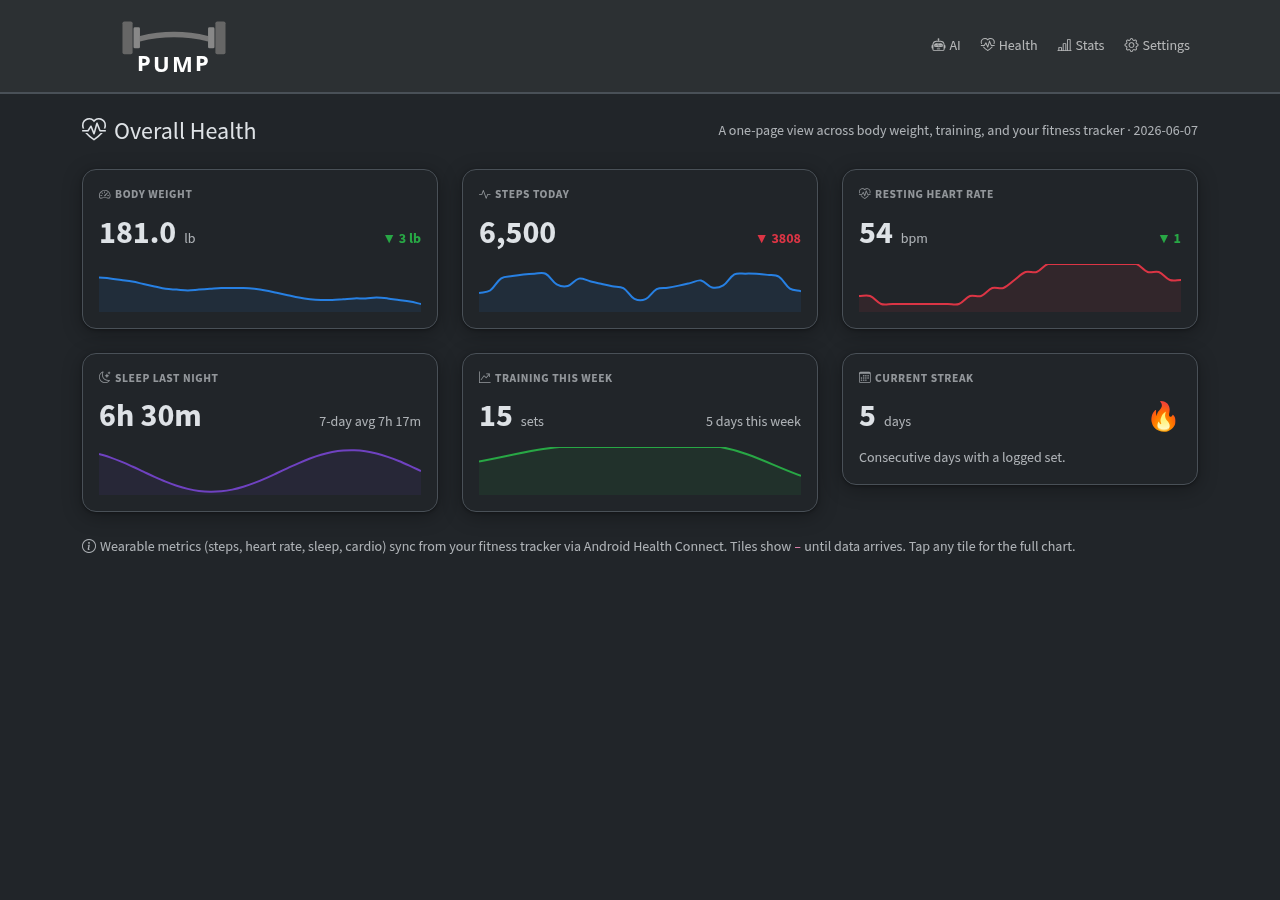
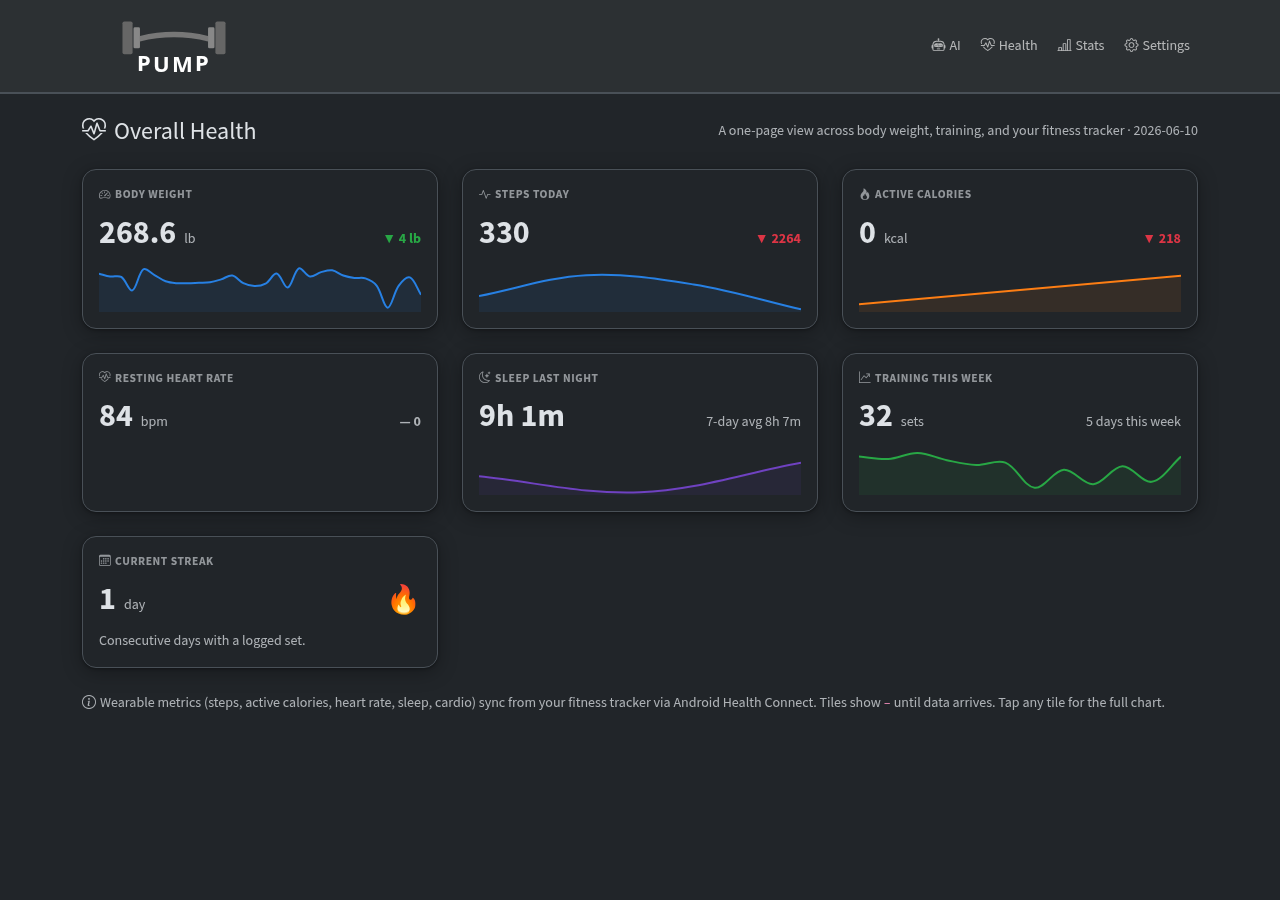
fix(health): aggregate steps + active calories as daily snapshots, not sums
Verified against the live store: the bridge reports steps and active_calories
as cumulative daily-total snapshots — same midnight start_time, re-pushed
through the day with a growing end_time. Because dedup keys on end_time, every
snapshot persists, and the old per-day SUM multiplied the real total by the
number of snapshots:

  2026-06-08 steps: real 4,607 -> summed 40,674 (~9x)
  2026-06-10 steps ("today"): real 330 -> summed 725
  2026-06-08 active calories: real 263 -> summed ~1,315

Aggregate per (day, start_time) taking the MAX, then sum across distinct
start_times per day. Correct for both re-reported daily snapshots (one start ⇒
final total) and genuine sub-day intervals (distinct starts ⇒ summed). Fixes
the long-standing steps inflation and keeps the new active-calories series
honest. Tests cover both shapes.

Also regenerates all assets/ screenshots at 1280×900 from a live-data preview
(deep-sleep stages now render, Resting HR populated via the min proxy, Active
Calories tile + chart, corrected steps) and adds a Muscle Balance screenshot
for the new Sets/Volume toggle. README screenshot table updated to match.

diff --git a/internal/web/healthstats.go b/internal/web/healthstats.go
@@ -40,8 +40,16 @@ func loadHealthStats() models.HealthStats {
 func aggregateHealth(recs []models.HealthRecord) models.HealthStats {
 	out := models.HealthStats{Available: true}
 
-	stepsByDay := map[string]float64{}
-	caloriesByDay := map[string]float64{}
+	// steps and active_calories arrive as cumulative daily-total snapshots:
+	// the bridge re-reports the running daily figure with the same midnight
+	// start_time and a growing end_time (and dedup keys on end_time, so every
+	// snapshot persists). Summing them multiplies the real total by the number
+	// of snapshots. Accumulate per (day, start_time) taking the MAX, then sum
+	// across distinct start_times per day — correct for both re-reported daily
+	// snapshots (one start ⇒ the final total) and genuine sub-day intervals
+	// (distinct starts ⇒ summed).
+	stepsByDay := map[string]map[int64]float64{}
+	caloriesByDay := map[string]map[int64]float64{}
 	restingByDay := map[string][]float64{}
 	hrByDay := map[string][]float64{}
 	sleepByDay := map[string]*models.SleepNight{}
@@ -58,9 +66,9 @@ func aggregateHealth(recs []models.HealthRecord) models.HealthStats {
 		day := r.StartTime.Local().Format("2006-01-02")
 		switch r.MetricType {
 		case "steps":
-			stepsByDay[day] += val(r)
+			addSnapshot(stepsByDay, day, r.StartTime.Unix(), val(r))
 		case "active_calories":
-			caloriesByDay[day] += val(r)
+			addSnapshot(caloriesByDay, day, r.StartTime.Unix(), val(r))
 		case "resting_heart_rate":
 			restingByDay[day] = append(restingByDay[day], val(r))
 		case "heart_rate":
@@ -83,11 +91,11 @@ func aggregateHealth(recs []models.HealthRecord) models.HealthStats {
 		}
 	}
 
-	for d, v := range stepsByDay {
-		out.DailySteps = append(out.DailySteps, models.DayValue{Date: d, Value: v})
+	for d, m := range stepsByDay {
+		out.DailySteps = append(out.DailySteps, models.DayValue{Date: d, Value: sumSnapshots(m)})
 	}
-	for d, v := range caloriesByDay {
-		out.ActiveCalories = append(out.ActiveCalories, models.DayValue{Date: d, Value: v})
+	for d, m := range caloriesByDay {
+		out.ActiveCalories = append(out.ActiveCalories, models.DayValue{Date: d, Value: sumSnapshots(m)})
 	}
 	for d, vs := range hrByDay {
 		mn, av, mx := minAvgMax(vs)
@@ -115,6 +123,27 @@ func aggregateHealth(recs []models.HealthRecord) models.HealthStats {
 	sort.Slice(out.Cardio, func(i, j int) bool { return out.Cardio[i].Date < out.Cardio[j].Date })
 
 	return out
+}
+
+// addSnapshot records v as the max seen for (day, start) — collapsing the
+// bridge's re-reported cumulative snapshots of the same interval to their
+// final value. See the comment in aggregateHealth.
+func addSnapshot(m map[string]map[int64]float64, day string, start int64, v float64) {
+	if m[day] == nil {
+		m[day] = map[int64]float64{}
+	}
+	if v > m[day][start] {
+		m[day][start] = v
+	}
+}
+
+// sumSnapshots totals the per-start maxima for a day.
+func sumSnapshots(m map[int64]float64) float64 {
+	var s float64
+	for _, v := range m {
+		s += v
+	}
+	return s
 }
 
 func sortByDate(s []models.DayValue) {

diff --git a/internal/web/healthstats_test.go b/internal/web/healthstats_test.go
@@ -91,17 +91,41 @@ func TestAggregateHealthRestingHRRealWins(t *testing.T) {
 	}
 }
 
-// TestAggregateHealthActiveCalories verifies active_calories sums per day.
-func TestAggregateHealthActiveCalories(t *testing.T) {
+// TestAggregateHealthDistinctIntervalsSum verifies that genuine sub-day
+// intervals (distinct start_times) sum, for both steps and active calories.
+func TestAggregateHealthDistinctIntervalsSum(t *testing.T) {
 	d := time.Date(2026, 6, 8, 0, 0, 0, 0, time.Local)
 	out := aggregateHealth([]models.HealthRecord{
-		rec("active_calories", d, 174, `{"calories":174.0}`),
-		rec("active_calories", d.Add(time.Hour), 89, `{"calories":89.0}`),
+		rec("active_calories", d, 174, ""),
+		rec("active_calories", d.Add(time.Hour), 89, ""),
+		rec("steps", d, 1000, ""),
+		rec("steps", d.Add(time.Hour), 500, ""),
 	})
-	if len(out.ActiveCalories) != 1 {
-		t.Fatalf("want 1 active-calorie day, got %d", len(out.ActiveCalories))
+	if len(out.ActiveCalories) != 1 || out.ActiveCalories[0].Value != 263 {
+		t.Errorf("active calories distinct intervals: want 263 (174+89), got %+v", out.ActiveCalories)
 	}
-	if out.ActiveCalories[0].Value != 263 {
-		t.Errorf("active calories: want 263 (174+89), got %v", out.ActiveCalories[0].Value)
+	if len(out.DailySteps) != 1 || out.DailySteps[0].Value != 1500 {
+		t.Errorf("steps distinct intervals: want 1500 (1000+500), got %+v", out.DailySteps)
+	}
+}
+
+// TestAggregateHealthCumulativeSnapshots verifies that re-reported cumulative
+// daily snapshots (same midnight start, growing running total) collapse to the
+// day's MAX instead of summing — the bug that inflated steps ~9x.
+func TestAggregateHealthCumulativeSnapshots(t *testing.T) {
+	d := time.Date(2026, 6, 8, 0, 0, 0, 0, time.Local)
+	out := aggregateHealth([]models.HealthRecord{
+		rec("steps", d, 2660, ""),
+		rec("steps", d, 3146, ""),
+		rec("steps", d, 4607, ""),
+		rec("active_calories", d, 100, ""),
+		rec("active_calories", d, 263, ""),
+		rec("active_calories", d, 263, ""),
+	})
+	if len(out.DailySteps) != 1 || out.DailySteps[0].Value != 4607 {
+		t.Errorf("steps: want daily max 4607 (not summed), got %+v", out.DailySteps)
+	}
+	if len(out.ActiveCalories) != 1 || out.ActiveCalories[0].Value != 263 {
+		t.Errorf("active calories: want daily max 263 (not summed), got %+v", out.ActiveCalories)
 	}
 }

diff --git a/README.md b/README.md
@@ -19,9 +19,9 @@
 |---|---|---|
 | ![Stats Steps](assets/screenshot-stats-steps.png) | ![Stats Heart Rate](assets/screenshot-stats-hr.png) | ![Stats Sleep](assets/screenshot-stats-sleep.png) |
 
-| Stats: Cardio | | |
+| Stats: Cardio | Stats: Muscle Balance | |
 |---|---|---|
-| ![Stats Cardio](assets/screenshot-stats-cardio.png) | | |
+| ![Stats Cardio](assets/screenshot-stats-cardio.png) | ![Stats Muscle Balance](assets/screenshot-stats-balance.png) | |
 
 - [Architecture](#architecture)
 - [Configuration](#configuration)
